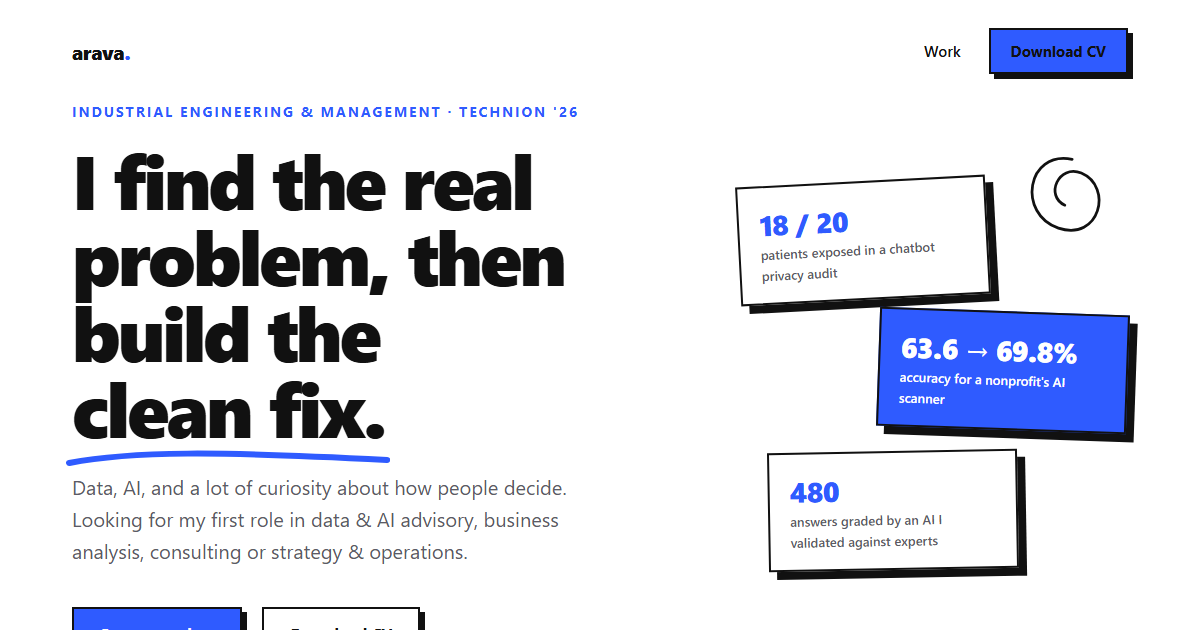
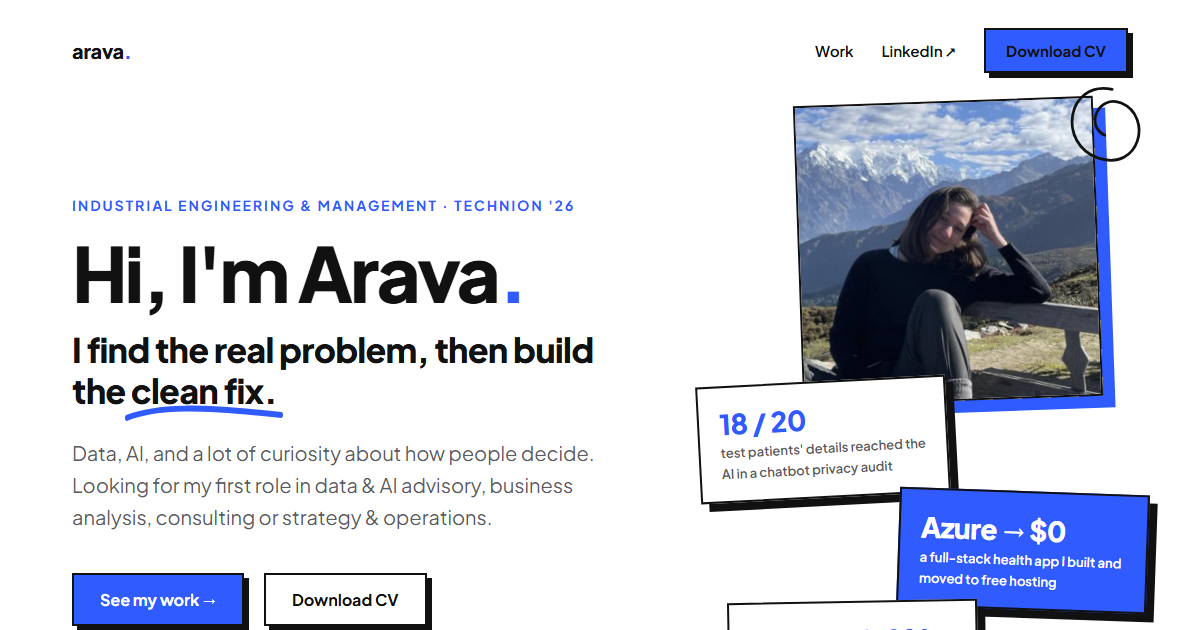
Personal hero with photo; LinkedIn on every page

diff --git a/index.html b/index.html
@@ -17,17 +17,19 @@
 <div class="wrap">
   <nav>
     <a class="logo" href="index.html">arava<span>.</span></a>
-    <div class="links"><a href="work.html">Work</a><a class="btn" href="assets/cv.pdf" download>Download CV</a></div>
+    <div class="links"><a href="work.html">Work</a><a href="https://www.linkedin.com/in/arava-gendelman" target="_blank" rel="noopener">LinkedIn ↗</a><a class="btn" href="assets/cv.pdf" download>Download CV</a></div>
   </nav>
 
   <section class="hero">
     <div>
       <div class="eyebrow">Industrial Engineering &amp; Management · Technion '26</div>
-      <h1>I find the real problem, then build the <span class="hl">clean fix.<svg viewBox="0 0 300 24" preserveAspectRatio="none" aria-hidden="true"><path d="M3 16 C 60 4, 140 4, 297 13" stroke="#2f5bff" stroke-width="6" fill="none" stroke-linecap="round"/></svg></span></h1>
+      <h1>Hi, I'm Arava<span class="dot">.</span></h1>
+      <p class="tagline">I find the real problem, then build the <span class="hl">clean fix.<svg viewBox="0 0 300 24" preserveAspectRatio="none" aria-hidden="true"><path d="M3 16 C 60 4, 140 4, 297 13" stroke="#2f5bff" stroke-width="6" fill="none" stroke-linecap="round"/></svg></span></p>
       <p class="lede">Data, AI, and a lot of curiosity about how people decide. Looking for my first role in data &amp; AI advisory, business analysis, consulting or strategy &amp; operations.</p>
       <div class="cta"><a class="btn" href="work.html">See my work →</a><a class="btn ghost" href="assets/cv.pdf" download>Download CV</a></div>
     </div>
     <div class="stack">
+      <img class="me" src="assets/img/arava.jpg" alt="Arava sitting on a wooden bench with snowy mountains behind her">
       <svg class="scribble" viewBox="0 0 120 120" aria-hidden="true"><path d="M70 20 C 20 10, 10 80, 55 95 C 100 110, 115 50, 80 35 C 55 25, 40 60, 62 70" stroke="#111" stroke-width="3" fill="none" stroke-linecap="round"/></svg>
       <a class="tile t1" href="work/mercury.html" style="text-decoration:none"><b>18 / 20</b><span>test patients' details reached the AI in a chatbot privacy audit</span></a>
       <a class="tile t2" href="work/sugarbuddy.html" style="text-decoration:none"><b>Azure → $0</b><span>a full-stack health app I built and moved to free hosting</span></a>
@@ -47,7 +49,7 @@
 </section>
 
 <footer>
-  <div class="wrap"><h2>Let's talk<span>.</span></h2><a class="btn" href="assets/cv.pdf" download>Download CV</a></div>
+  <div class="wrap"><h2>Let's talk<span>.</span></h2><div class="foot-links"><a class="btn ghost" href="https://www.linkedin.com/in/arava-gendelman" target="_blank" rel="noopener">LinkedIn ↗</a><a class="btn" href="assets/cv.pdf" download>Download CV</a></div></div>
 </footer>
 </body>
 </html>

diff --git a/assets/style.css b/assets/style.css
@@ -176,3 +176,28 @@ header.page .scribble { position:absolute; right:40px; top:30px; width:130px; }
 .sm-img.fit { object-fit:contain; padding:10px; }
 .sm-duo { display:grid; grid-template-columns:1fr 1fr; gap:2px; margin:-24px -22px 18px; border-bottom:2px solid var(--ink); background:var(--ink); }
 .sm-duo img { aspect-ratio:4/3; object-fit:cover; object-position:top right; background:#fff; }
+/* Personal hero */
+.hero h1 .dot { color:var(--blue); }
+.tagline { font-size:34px; line-height:1.2; font-weight:800; letter-spacing:-.02em; margin:-6px 0 26px; max-width:560px; }
+.stack { height:560px; }
+.stack .me { position:absolute; top:0; left:30px; width:310px; aspect-ratio:1; object-fit:cover; border:2px solid var(--ink); box-shadow:12px 12px 0 var(--blue); transform:rotate(-2deg); }
+.stack .tile.t1 { top:250px; left:-20px; }
+.stack .tile.t2 { top:330px; right:-10px; }
+.stack .tile.t3 { top:450px; left:20px; }
+.stack .scribble { right:0; top:-20px; }
+.foot-links { display:flex; gap:18px; flex-wrap:wrap; }
+footer .btn.ghost { background:transparent; color:#fff; }
+@media (max-width: 860px) {
+  .tagline { font-size:24px; }
+  .stack { height:auto; }
+  .stack .me { position:static; width:100%; max-width:340px; transform:none; margin-bottom:6px; }
+}.stack { height:620px; }
+.stack .me { left:70px; width:300px; }
+.stack .tile.t1 { top:280px; left:-30px; }
+.stack .tile.t2 { top:390px; right:-20px; }
+.stack .tile.t3 { top:500px; left:0; }
+.stack .scribble { right:-30px; top:-30px; }
+@media (max-width: 860px) {
+  .stack { height:auto; }
+  .links a[href*="linkedin"] { display:none; }
+}

diff --git a/work/sugarbuddy.html b/work/sugarbuddy.html
@@ -17,7 +17,7 @@
 <div class="wrap">
   <nav>
     <a class="logo" href="../index.html">arava<span>.</span></a>
-    <div class="links"><a class="on" href="../work.html">Work</a><a class="btn" href="../assets/cv.pdf" download>Download CV</a></div>
+    <div class="links"><a class="on" href="../work.html">Work</a><a href="https://www.linkedin.com/in/arava-gendelman" target="_blank" rel="noopener">LinkedIn ↗</a><a class="btn" href="../assets/cv.pdf" download>Download CV</a></div>
   </nav>
 
   <header class="cs-head">
@@ -137,7 +137,7 @@
 </div>
 
 <footer>
-  <div class="wrap"><h2>Let's talk<span>.</span></h2><a class="btn" href="../assets/cv.pdf" download>Download CV</a></div>
+  <div class="wrap"><h2>Let's talk<span>.</span></h2><div class="foot-links"><a class="btn ghost" href="https://www.linkedin.com/in/arava-gendelman" target="_blank" rel="noopener">LinkedIn ↗</a><a class="btn" href="../assets/cv.pdf" download>Download CV</a></div></div>
 </footer>
 </body>
 </html>

diff --git a/work/achvalens.html b/work/achvalens.html
@@ -17,7 +17,7 @@
 <div class="wrap">
   <nav>
     <a class="logo" href="../index.html">arava<span>.</span></a>
-    <div class="links"><a class="on" href="../work.html">Work</a><a class="btn" href="../assets/cv.pdf" download>Download CV</a></div>
+    <div class="links"><a class="on" href="../work.html">Work</a><a href="https://www.linkedin.com/in/arava-gendelman" target="_blank" rel="noopener">LinkedIn ↗</a><a class="btn" href="../assets/cv.pdf" download>Download CV</a></div>
   </nav>
 
   <header class="cs-head">
@@ -70,7 +70,7 @@
 </div>
 
 <footer>
-  <div class="wrap"><h2>Let's talk<span>.</span></h2><a class="btn" href="../assets/cv.pdf" download>Download CV</a></div>
+  <div class="wrap"><h2>Let's talk<span>.</span></h2><div class="foot-links"><a class="btn ghost" href="https://www.linkedin.com/in/arava-gendelman" target="_blank" rel="noopener">LinkedIn ↗</a><a class="btn" href="../assets/cv.pdf" download>Download CV</a></div></div>
 </footer>
 </body>
 </html>

diff --git a/work/mercury.html b/work/mercury.html
@@ -17,7 +17,7 @@
 <div class="wrap">
   <nav>
     <a class="logo" href="../index.html">arava<span>.</span></a>
-    <div class="links"><a class="on" href="../work.html">Work</a><a class="btn" href="../assets/cv.pdf" download>Download CV</a></div>
+    <div class="links"><a class="on" href="../work.html">Work</a><a href="https://www.linkedin.com/in/arava-gendelman" target="_blank" rel="noopener">LinkedIn ↗</a><a class="btn" href="../assets/cv.pdf" download>Download CV</a></div>
   </nav>
 
   <header class="cs-head">
@@ -72,7 +72,7 @@
 </div>
 
 <footer>
-  <div class="wrap"><h2>Let's talk<span>.</span></h2><a class="btn" href="../assets/cv.pdf" download>Download CV</a></div>
+  <div class="wrap"><h2>Let's talk<span>.</span></h2><div class="foot-links"><a class="btn ghost" href="https://www.linkedin.com/in/arava-gendelman" target="_blank" rel="noopener">LinkedIn ↗</a><a class="btn" href="../assets/cv.pdf" download>Download CV</a></div></div>
 </footer>
 </body>
 </html>

diff --git a/work/state-not-trait.html b/work/state-not-trait.html
@@ -17,7 +17,7 @@
 <div class="wrap">
   <nav>
     <a class="logo" href="../index.html">arava<span>.</span></a>
-    <div class="links"><a class="on" href="../work.html">Work</a><a class="btn" href="../assets/cv.pdf" download>Download CV</a></div>
+    <div class="links"><a class="on" href="../work.html">Work</a><a href="https://www.linkedin.com/in/arava-gendelman" target="_blank" rel="noopener">LinkedIn ↗</a><a class="btn" href="../assets/cv.pdf" download>Download CV</a></div>
   </nav>
 
   <header class="cs-head">
@@ -73,7 +73,7 @@
 </div>
 
 <footer>
-  <div class="wrap"><h2>Let's talk<span>.</span></h2><a class="btn" href="../assets/cv.pdf" download>Download CV</a></div>
+  <div class="wrap"><h2>Let's talk<span>.</span></h2><div class="foot-links"><a class="btn ghost" href="https://www.linkedin.com/in/arava-gendelman" target="_blank" rel="noopener">LinkedIn ↗</a><a class="btn" href="../assets/cv.pdf" download>Download CV</a></div></div>
 </footer>
 </body>
 </html>

diff --git a/work.html b/work.html
@@ -17,7 +17,7 @@
 <div class="wrap">
   <nav>
     <a class="logo" href="index.html">arava<span>.</span></a>
-    <div class="links"><a class="on" href="work.html">Work</a><a class="btn" href="assets/cv.pdf" download>Download CV</a></div>
+    <div class="links"><a class="on" href="work.html">Work</a><a href="https://www.linkedin.com/in/arava-gendelman" target="_blank" rel="noopener">LinkedIn ↗</a><a class="btn" href="assets/cv.pdf" download>Download CV</a></div>
   </nav>
 
   <header class="page">
@@ -105,7 +105,7 @@
   </div></div>
 
 <footer>
-  <div class="wrap"><h2>Let's talk<span>.</span></h2><a class="btn" href="assets/cv.pdf" download>Download CV</a></div>
+  <div class="wrap"><h2>Let's talk<span>.</span></h2><div class="foot-links"><a class="btn ghost" href="https://www.linkedin.com/in/arava-gendelman" target="_blank" rel="noopener">LinkedIn ↗</a><a class="btn" href="assets/cv.pdf" download>Download CV</a></div></div>
 </footer>
 </body>
 </html>
